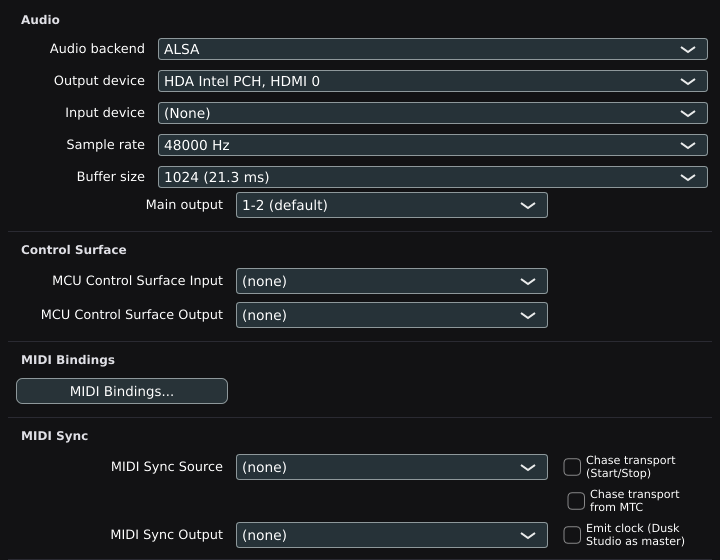
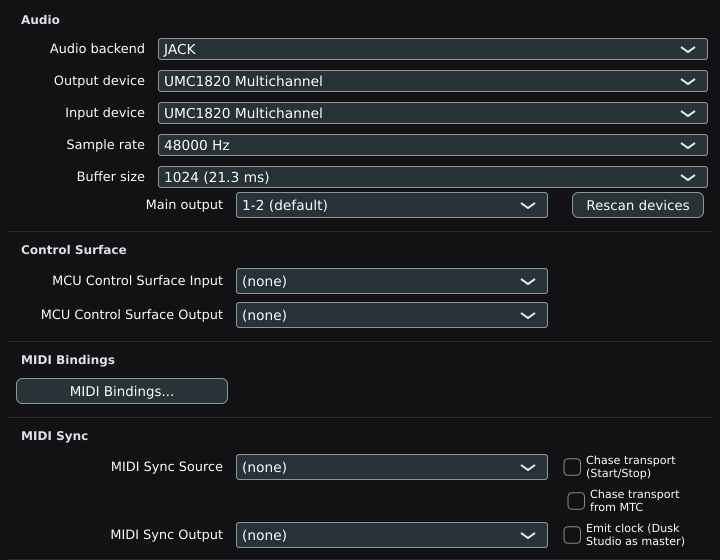
Move Rescan devices into the Audio section
It re-enumerates backends and devices, so it belongs beside the device
pickers users check after a hot-plug (where the manual already lists
it). Run Self-Test stays in Advanced.

Changed region(s): [[0.7944, 0.3339, 0.9778, 0.3946], [0.2139, 0.0607, 0.4583, 0.1518], [0.2139, 0.1821, 0.4583, 0.2125]]

diff --git a/src/ui/AudioSettingsPanel.cpp b/src/ui/AudioSettingsPanel.cpp
@@ -568,6 +568,7 @@ void AudioSettingsPanel::resized()
         auto row = takeStdRow();
         mainOutputLabel.setBounds (row.removeFromLeft (kLabelW).reduced (4, 2));
         mainOutputCombo.setBounds (row.removeFromLeft (kComboW).reduced (4, 2));
+        rescanButton   .setBounds (row.removeFromRight (140).reduced (4, 2));
     }
     endSection();
 
@@ -670,7 +671,6 @@ void AudioSettingsPanel::resized()
         periodsCombo.setBounds (row.removeFromLeft (100).reduced (4, 4));
 #endif
         selfTestButton.setBounds (row.removeFromRight (160).reduced (4, 4));
-        rescanButton  .setBounds (row.removeFromRight (140).reduced (4, 4));
     }
     {
         auto row = takeRow (32);
